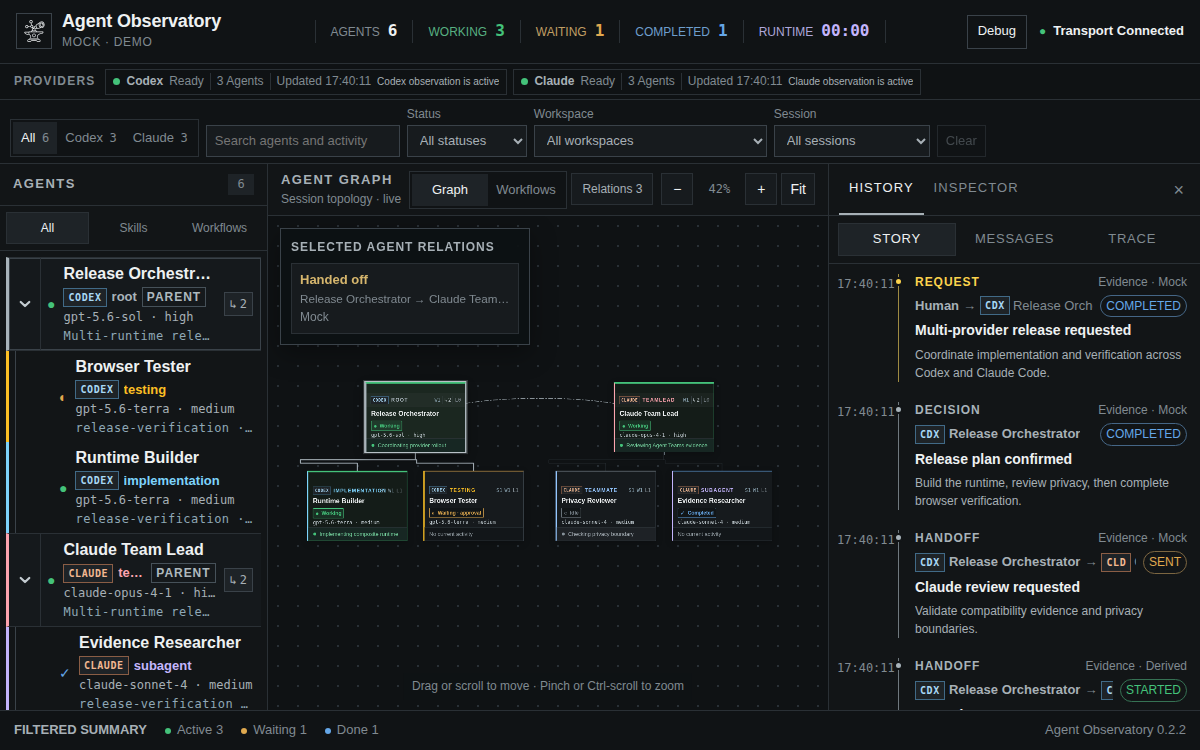
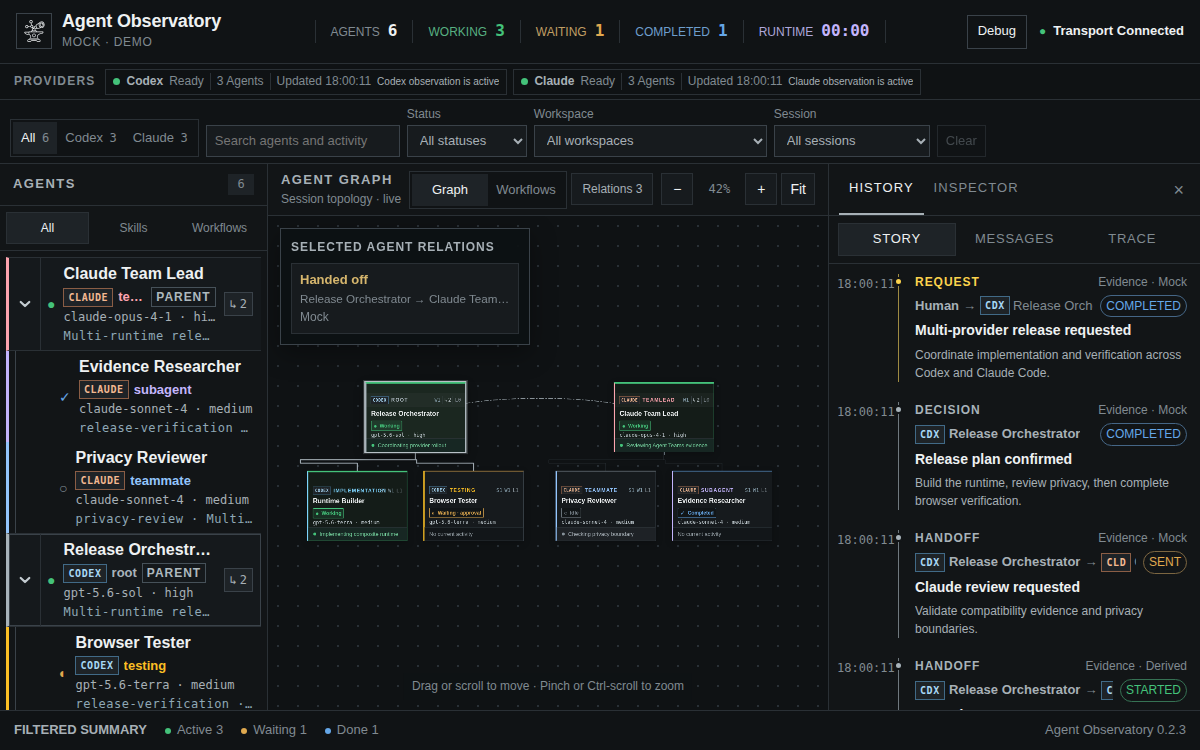
fix(cli): observe all active workspaces by default

diff --git a/apps/server/src/cli.test.ts b/apps/server/src/cli.test.ts
@@ -30,11 +30,16 @@ async function waitUntil(predicate: () => boolean | Promise<boolean>): Promise<v
 
 describe("agent-observatory CLI", () => {
   it("defaults to Real Mode with Codex and Claude while preserving explicit Mock Mode", () => {
-    expect(resolveRuntimeConfiguration({})).toEqual({ adapter: "real", providers: "codex,claude" });
-    expect(resolveRuntimeConfiguration({ real: true })).toEqual({ adapter: "real", providers: "codex,claude" });
-    expect(resolveRuntimeConfiguration({ provider: "codex" })).toEqual({ adapter: "real", providers: "codex" });
-    expect(resolveRuntimeConfiguration({ mock: true })).toEqual({ adapter: "mock", providers: undefined });
-    expect(resolveRuntimeConfiguration({ scenario: "demo" })).toEqual({ adapter: "mock", providers: undefined });
+    expect(resolveRuntimeConfiguration({})).toEqual({ adapter: "real", providers: "codex,claude", cwd: "all" });
+    expect(resolveRuntimeConfiguration({ real: true })).toEqual({ adapter: "real", providers: "codex,claude", cwd: "all" });
+    expect(resolveRuntimeConfiguration({ provider: "codex" })).toEqual({ adapter: "real", providers: "codex", cwd: "all" });
+    expect(resolveRuntimeConfiguration({ cwd: "/projects/selected" })).toEqual({
+      adapter: "real",
+      providers: "codex,claude",
+      cwd: "/projects/selected",
+    });
+    expect(resolveRuntimeConfiguration({ mock: true })).toEqual({ adapter: "mock", providers: undefined, cwd: undefined });
+    expect(resolveRuntimeConfiguration({ scenario: "demo" })).toEqual({ adapter: "mock", providers: undefined, cwd: undefined });
     expect(() => resolveRuntimeConfiguration({ real: true, mock: true })).toThrow("Use either --real or --mock");
     expect(() => resolveRuntimeConfiguration({ real: true, scenario: "demo" })).toThrow("scenarios run in Mock Mode");
   });

diff --git a/bin/agent-observatory.js b/bin/agent-observatory.js
@@ -19,7 +19,7 @@ Options:
   --mock                 Run with deterministic local fixtures
   --provider <name>      codex, claude, or all (default: all)
   --port <number>        HTTP/WebSocket port (preferred default: 4317)
-  --cwd <path|all>       Restrict Real Mode to one working directory
+  --cwd <path|all>       Restrict Real Mode (default: all active workspaces)
   --root-thread <id>     Restrict Real Mode to one root thread tree
   --transport <mode>     shared, standalone, or proxy (default: shared)
   --scenario <name>      Mock scenario: a, b, demo, or stress (implies --mock)
@@ -122,7 +122,7 @@ if (port !== preferredPort) {
 process.env.OBSERVATORY_PORT = String(port);
 process.env.OBSERVATORY_ADAPTER = runtime.adapter;
 if (runtime.providers) process.env.OBSERVATORY_PROVIDERS = runtime.providers;
-if (values.cwd) process.env.OBSERVATORY_CWD = values.cwd;
+if (runtime.cwd) process.env.OBSERVATORY_CWD = runtime.cwd;
 if (values["root-thread"]) process.env.OBSERVATORY_ROOT_THREAD_ID = values["root-thread"];
 if (values.transport) process.env.OBSERVATORY_CODEX_TRANSPORT = values.transport;
 if (values.scenario) process.env.OBSERVATORY_SCENARIO = values.scenario;

diff --git a/apps/server/dist/index.js b/apps/server/dist/index.js
@@ -231,7 +231,7 @@ function contentCaptureEnabled(environment = process.env) {
 // package.json
 var package_default = {
   name: "agent-observatory",
-  version: "0.2.2",
+  version: "0.2.3",
   description: "Local observability dashboard for Codex and Claude Code multi-agent workflows",
   license: "MIT",
   type: "module",

diff --git a/bin/cli-runtime.d.ts b/bin/cli-runtime.d.ts
@@ -3,11 +3,13 @@ export interface RuntimeValues {
   mock?: boolean;
   scenario?: string;
   provider?: string;
+  cwd?: string;
 }
 
 export interface RuntimeConfiguration {
   adapter: "real" | "mock";
   providers?: string;
+  cwd?: string;
 }
 
 export interface BrowserCommand {

diff --git a/bin/cli-runtime.js b/bin/cli-runtime.js
@@ -19,6 +19,7 @@ export function resolveRuntimeConfiguration(values) {
       : values.provider === "all" || values.provider === undefined
         ? "codex,claude"
         : values.provider,
+    cwd: mock ? undefined : values.cwd ?? "all",
   };
 }
 

diff --git a/README.md b/README.md
@@ -45,7 +45,8 @@ data. Reproduce it with `bunx agent-observatory --scenario demo`.
 ### Run directly with bunx
 
 Run without installing the npm package separately. The default is Real Mode
-with both Codex and Claude selected, and it opens a browser automatically.
+with both Codex and Claude selected across all active workspaces, and it opens
+a browser automatically.
 
 ```bash
 bunx agent-observatory
@@ -67,8 +68,8 @@ bunx agent-observatory --mock
 bunx agent-observatory --scenario demo
 ```
 
-You can also limit observation to a specific working directory or disable
-automatic browser launch.
+Use `--cwd` to narrow the default all-workspace view, or disable automatic
+browser launch.
 
 ```bash
 bunx agent-observatory --cwd /absolute/path/to/project
